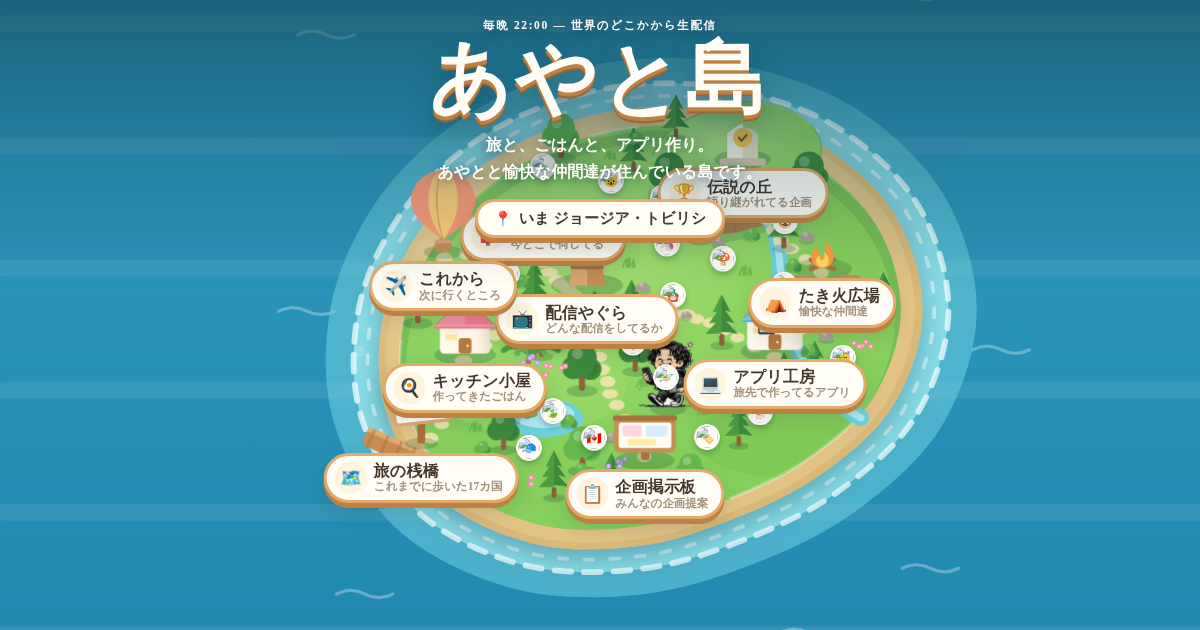
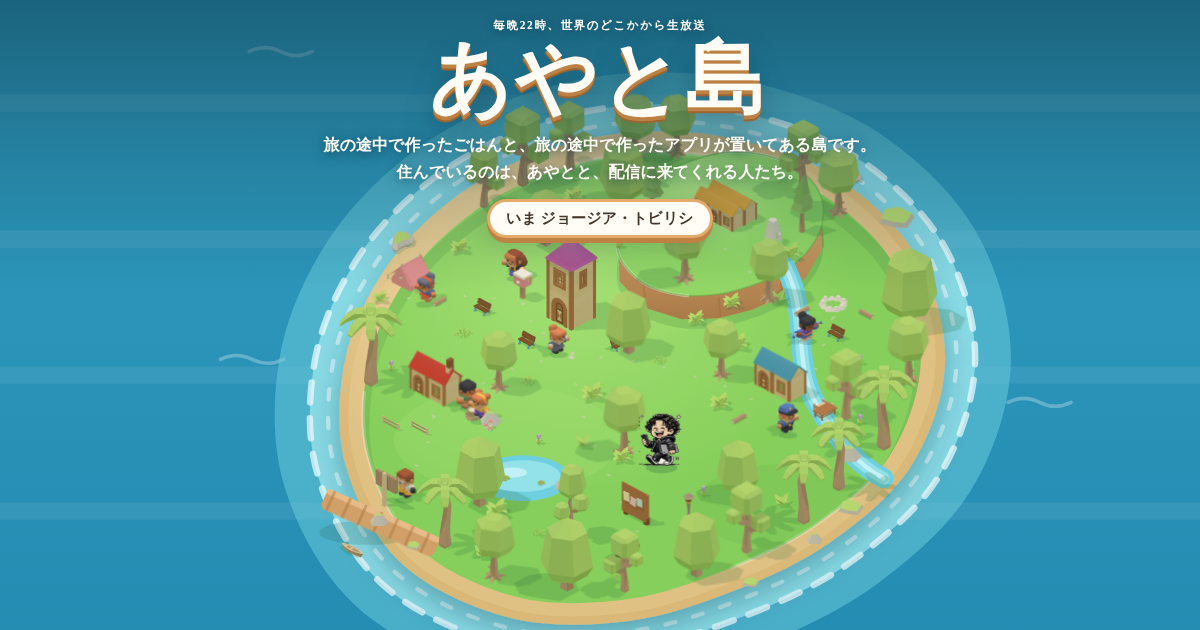
add: いまいる場所で島の景色が変わるようにする
/island-api/state の current.theme を見て、島の配色を切り替える。
北欧に着けば緑が寒色になり、砂浜が白くなる。地形の色だけ変えると
焼いてあるスプライトが取り残されるので、島の絵ぜんぶに軽いフィルタもかける。

共有カード(og.png)も島そのものから作り直した。
tools/sprites/og.mjs を流せば、島の絵を変えたときに追従できる。

Claude-Session: https://claude.ai/code/session_01LuEuARCBiX8w9R3CwPpCH6

diff --git a/site/app/layout.tsx b/site/app/layout.tsx
@@ -1,5 +1,7 @@
 import type { Metadata, Viewport } from "next";
 import "./globals.css";
+import IslandTheme from "@/components/island/Theme";
+import { NOW_FALLBACK } from "@/content/site";
 
 export const metadata: Metadata = {
   metadataBase: new URL("https://live-streaming-d3cac.web.app"),
@@ -31,14 +33,15 @@ export default function RootLayout({ children }: { children: React.ReactNode }) 
     // それは承知のうえなので suppressHydrationWarning で黙らせる
     <html lang="ja" suppressHydrationWarning>
       <head>
-        {/* 島の空の色を、見ている人の時計に合わせる。
-            描き始める前に決めたいので、React を待たずにここで入れておく。 */}
+        {/* 島の空の色を見ている人の時計に、島の景色をあやとの現在地に合わせる。
+            描き始める前に決めたいので、React を待たずにここで入れておく。
+            現在地はこのあと IslandTheme が本物の値で上書きする。 */}
         <script
           dangerouslySetInnerHTML={{
             __html:
-              "(function(){var h=new Date().getHours();" +
-              "document.documentElement.dataset.time=" +
-              "h<5?'night':h<10?'morning':h<16?'day':h<19?'evening':'night';})()",
+              "(function(){var d=document.documentElement,h=new Date().getHours();" +
+              "d.dataset.time=h<5?'night':h<10?'morning':h<16?'day':h<19?'evening':'night';" +
+              `d.dataset.theme=${JSON.stringify(NOW_FALLBACK.theme)};})()`,
           }}
         />
         <link rel="preconnect" href="https://fonts.googleapis.com" />
@@ -48,7 +51,10 @@ export default function RootLayout({ children }: { children: React.ReactNode }) 
           rel="stylesheet"
         />
       </head>
-      <body>{children}</body>
+      <body>
+        <IslandTheme />
+        {children}
+      </body>
     </html>
   );
 }

diff --git a/site/app/globals.css b/site/app/globals.css
@@ -97,11 +97,21 @@
   --glow: rgba(120, 160, 255, 0.1);
   --lamp: 1;
 }
+/* いまいる場所で島の景色を変える。
+   地形の色だけ変えるとスプライトが取り残されるので、
+   島の絵ぜんぶに軽いフィルタもかける。 */
 [data-theme="nordic"] {
   --grass-hi: #b6dfa8; --grass: #96c98c; --grass-lo: #74a86f;
   --grass2-hi: #c4e7b3; --grass2: #a5d497;
   --sand: #eef0e7; --sand-wet: #dbdfd2; --sand-edge: #c4c9ba;
-  --leaf-a: #3f7f56; --leaf-b: #55976a; --leaf-c: #2f6644;
+  --sea-deep: #2a6f92; --sea-mid: #4295b3; --sea-shallow: #8ed3dd;
+  --place-filter: saturate(0.86) hue-rotate(-6deg) brightness(1.04);
+}
+[data-theme="desert"] {
+  --grass-hi: #d9d276; --grass: #c2b959; --grass-lo: #9e9542;
+  --grass2-hi: #e2dc86; --grass2: #cdc466;
+  --sand: #f6e2ae; --sand-wet: #e6cd90; --sand-edge: #d3b676;
+  --place-filter: saturate(1.05) hue-rotate(-14deg) brightness(1.03);
 }
 
 * { box-sizing: border-box; }
@@ -149,7 +159,13 @@ img { max-width: 100%; }
 @media (min-width: 1000px) {
   .stage { height: min(92svh, 880px); }
 }
-.stage-svg { position: absolute; inset: 0; width: 100%; height: 100%; display: block; }
+.stage-svg {
+  position: absolute;
+  inset: 0;
+  width: 100%; height: 100%;
+  display: block;
+  filter: var(--place-filter, none);
+}
 
 /* 島ぜんぶにかぶせる時間帯の色。地形もスプライトも同じだけ染まる。 */
 .stage::before,

diff --git a/site/components/island/Theme.tsx b/site/components/island/Theme.tsx
@@ -1,0 +1,32 @@
+"use client";
+
+import { useEffect } from "react";
+import { getState } from "@/lib/api";
+
+/**
+ * 島の景色を、あやとがいまいる場所に合わせる。
+ *
+ * 北欧に行けば島の緑が寒色になり、砂浜が白くなる。
+ * 元の値は /island-api/state の current.theme で、
+ * GitHub Actions の「あやと島の『いま』を更新」から書きかえる。
+ *
+ * 描き始めの値は layout.tsx のスクリプトで入れてあるので、ここでは
+ * 実際の値が取れたときだけ上書きする。取れなくても既定の景色のままになる。
+ */
+export default function IslandTheme() {
+  useEffect(() => {
+    let alive = true;
+    getState()
+      .then((s) => {
+        const t = s.current?.theme;
+        if (alive && t) document.documentElement.dataset.theme = t;
+      })
+      .catch(() => {
+        /* 取れなければ既定の景色のまま */
+      });
+    return () => {
+      alive = false;
+    };
+  }, []);
+  return null;
+}

diff --git a/tools/sprites/README.md b/tools/sprites/README.md
@@ -22,6 +22,8 @@ Kenney の CC0 3Dモデルを、**あつまれ どうぶつの森に寄せた画
 - `meta.py` … 焼いた絵を切り詰めて WebP に変換し、島に置くための寸法を
   `site/content/sprites.json` に書く。PNG のままだと島1枚で3MB近くになる
 - `lab.mjs` … 試作用。JSON で渡した定義だけを焼いて見比べる
+- `og.mjs` … 共有カード(`site/public/og.png`)を島そのものから作り直す
+- `shot2.mjs` … 画面の見た目を撮って確かめる
 
 ## 焼き直す手順
 
